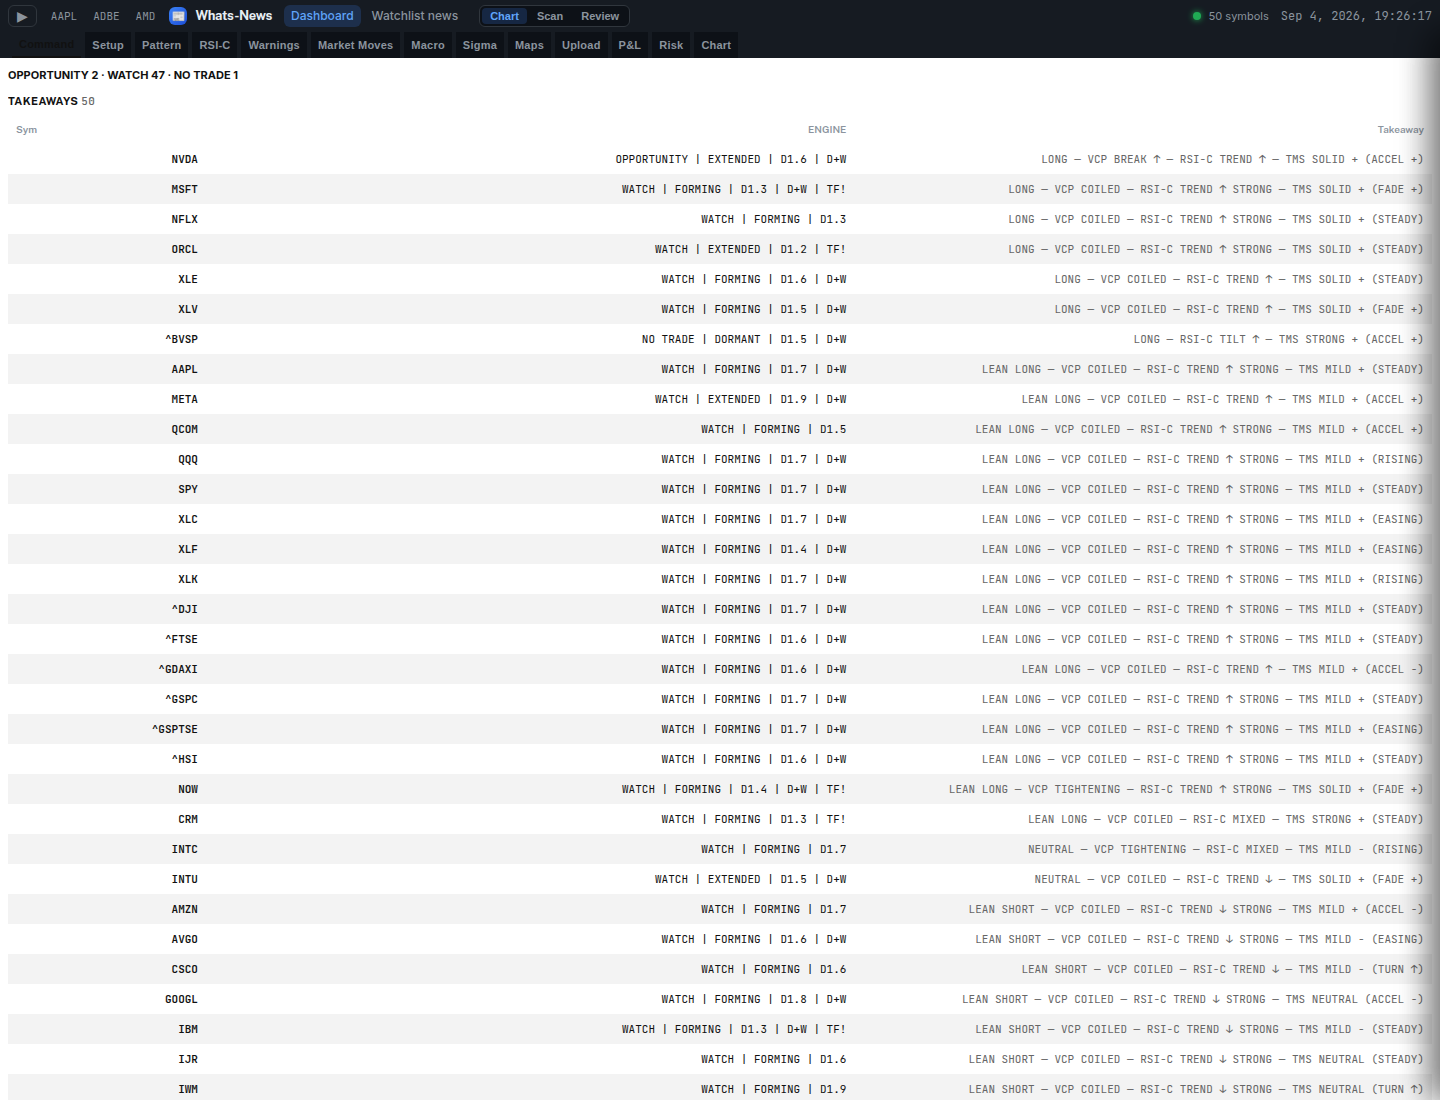
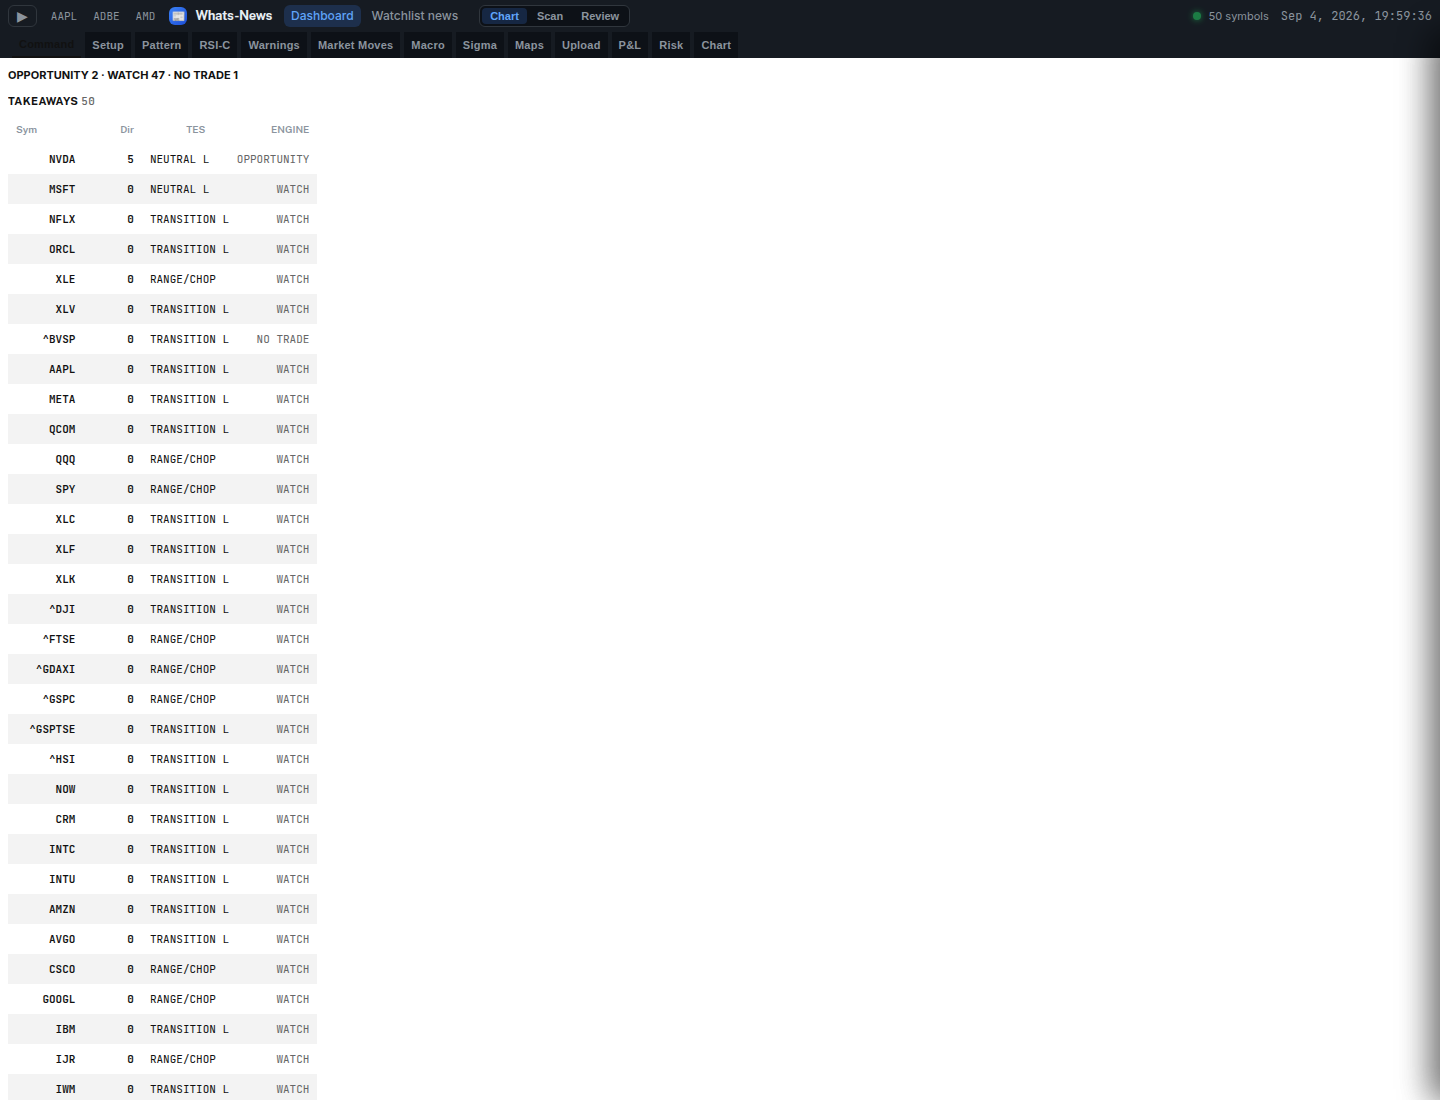
Pack Command takeaways; lock Rotation and TES/Dir shots
Keep compact scatter above Excel tables so Rotation/TES stay on-screen. Command strip is max-content so ENGINE primary is not clipped. Density shots lock Rotation + TES/Dir.

diff --git a/scripts/engine_desk.js b/scripts/engine_desk.js
@@ -710,8 +710,8 @@ function renderEngineMaps(data, view) {
         const rows = ((data.scanner || {}).rows) || [];
         el.innerHTML = `
             <div class="warnings-grid">
-                ${_engTesDirTable(rows)}
                 ${_engScatter((data.scanner || {}).scatter || [], { xLabel: 'Dir ±5', yLabel: 'RSI(14)', xmin: -5, xmax: 5, ymin: 0, ymax: 100, guides: [{ v: 0 }, { h: 25 }, { h: 50 }, { h: 75 }] })}
+                ${_engTesDirTable(rows)}
             </div>
             <details class="scan-help"><summary>HOW TO READ — TES / DIR</summary>
                 <p class="scan-breadth-note">${_engEsc((data.scanner || {}).howto || '')}</p>
@@ -722,8 +722,8 @@ function renderEngineMaps(data, view) {
         const rot = data.rotation || {};
         el.innerHTML = `
             <div class="warnings-grid">
-                ${_engPtsTable('Rotation', rot.points, 'RSI(14)', '1w σ', p => p.asset_class || p.gray_tag)}
                 ${_engScatter(rot.points || [], { xLabel: rot.x_label, yLabel: rot.y_label, xmin: 0, xmax: 100, guides: [{ v: 50 }, { h: 0 }] })}
+                ${_engPtsTable('Rotation', rot.points, 'RSI(14)', '1w σ', p => p.asset_class || p.gray_tag)}
             </div>
             <details class="scan-help"><summary>HOW TO READ — ROTATION</summary>
                 <p class="scan-breadth-note">${_engEsc(rot.howto || '')}</p>
@@ -732,8 +732,8 @@ function renderEngineMaps(data, view) {
         const coil = data.coil || {};
         el.innerHTML = `
             <div class="warnings-grid">
-                ${_engPtsTable('Coil', coil.points, 'coil_12', '13w %', p => p.coil_state || p.gray_tag)}
                 ${_engScatter(coil.points || [], { xLabel: coil.x_label, yLabel: coil.y_label, xmin: 0, xmax: 1.2, ymin: -20, ymax: 120, band: [0, 0.65], guides: [{ v: 0.45, color: '#111111' }, { v: 0.65, color: '#111111' }, { h: 0 }, { h: 100 }] })}
+                ${_engPtsTable('Coil', coil.points, 'coil_12', '13w %', p => p.coil_state || p.gray_tag)}
             </div>
             <details class="scan-help"><summary>HOW TO READ — COIL</summary>
                 <p class="scan-breadth-note">${_engEsc(coil.howto || '')}</p>
@@ -742,8 +742,8 @@ function renderEngineMaps(data, view) {
         const ft = data.fractal_td || {};
         el.innerHTML = `
             <div class="warnings-grid">
-                ${_engPtsTable('Fractal × TD', ft.points, 'D65', 'TD', p => p.td_flag || p.gray_tag)}
                 ${_engScatter(ft.points || [], { xLabel: ft.x_label, yLabel: ft.y_label, xmin: 1.1, xmax: 2.1, ymin: -15, ymax: 15, guides: [{ v: 1.3 }, { v: 1.5 }, { h: 13, color: '#EF4444' }, { h: -13, color: '#22C55E' }, { h: 0 }], empty: 'No D65 — SPEC 25/27 window failed. No invented markers.' })}
+                ${_engPtsTable('Fractal × TD', ft.points, 'D65', 'TD', p => p.td_flag || p.gray_tag)}
             </div>
             <details class="scan-help"><summary>HOW TO READ — FRACTAL × TD</summary>
                 <p class="scan-breadth-note">${_engEsc(ft.howto || '')}</p>
@@ -759,9 +759,9 @@ function renderEngineMaps(data, view) {
         }));
         el.innerHTML = `
             <div class="warnings-grid">
+                ${_engScatter(pts, { xLabel: tm.x_label, yLabel: tm.y_label, xmin: -100, xmax: 100, ymin: -25, ymax: 25, guides: [{ v: 0 }, { h: 0 }] })}
                 ${_engPtsTable('TMS-W', tm.weekly, 'score', 'impulse', p => p.zone || 'solid')}
                 ${_engPtsTable('TMS-D', tm.daily, 'score', 'impulse', p => p.zone || 'hollow')}
-                ${_engScatter(pts, { xLabel: tm.x_label, yLabel: tm.y_label, xmin: -100, xmax: 100, ymin: -25, ymax: 25, guides: [{ v: 0 }, { h: 0 }] })}
                 ${_engListCol('Zones', zoneRows)}
                 ${_engListCol('TOP 12M %', (ex.top_12m || []).map(x => ({ symbol: x.symbol, takeaway: x.ret_12m == null ? '' : `${_engNum(x.ret_12m)}%` })))}
                 ${_engListCol('BOTTOM 12M %', (ex.bottom_12m || []).map(x => ({ symbol: x.symbol, takeaway: x.ret_12m == null ? '' : `${_engNum(x.ret_12m)}%` })))}

diff --git a/styles/theme.css b/styles/theme.css
@@ -723,12 +723,26 @@ body.workspace-scan .desk-ia-bar {
   text-overflow: clip;
   white-space: nowrap;
 }
+#engine-command-body .wn-table {
+  width: max-content;
+  max-width: 100%;
+}
+#engine-command-body .wn-table th:nth-child(1),
+#engine-command-body .wn-table td:nth-child(1) {
+  width: 4.5rem;
+}
 #engine-command-body .wn-table th:nth-child(2),
 #engine-command-body .wn-table td:nth-child(2),
 #engine-command-body .wn-table th:nth-child(3),
-#engine-command-body .wn-table td:nth-child(3),
+#engine-command-body .wn-table td:nth-child(3) {
+  width: 4.5rem;
+  max-width: 5.5rem;
+}
 #engine-command-body .wn-table th:nth-child(4),
-#engine-command-body .wn-table td:nth-child(4),
+#engine-command-body .wn-table td:nth-child(4) {
+  width: 8rem;
+  max-width: 9rem;
+}
 #engine-maps-body .wn-table th:nth-child(2),
 #engine-maps-body .wn-table td:nth-child(2),
 #engine-maps-body .wn-table th:nth-child(3),

diff --git a/index.html b/index.html
@@ -6,7 +6,7 @@
   <title>Whats-News – Watchlist Dashboard</title>
   <meta name="description" content="Whats-News: local watchlist dashboard with Yahoo Finance charts, analysis, and real headlines." />
   <link rel="stylesheet" href="styles/main.css" />
-  <link rel="stylesheet" href="styles/theme.css?v=50" />
+  <link rel="stylesheet" href="styles/theme.css?v=51" />
   <!-- TradingView Lightweight Charts -->
   <script src="https://unpkg.com/lightweight-charts@4.1.3/dist/lightweight-charts.standalone.production.js"></script>
   <!-- Chart.js for statistics -->

diff --git a/tests/test_desk_density.py b/tests/test_desk_density.py
@@ -161,6 +161,8 @@ class DeskDensityTests(unittest.TestCase):
             "sigma_grid.png",
             "command_takeaways.png",
             "setup_glance.png",
+            "rotation_map.png",
+            "tes_dir.png",
         ):
             path = root / name
             self.assertTrue(path.is_file(), name)

diff --git a/docs/screenshots/density/README.md b/docs/screenshots/density/README.md
@@ -15,3 +15,7 @@ Watchlist before/after plus Book Upload | P&L | Risk.
 - [coil_map.png](coil_map.png) — Coil map: compact scatter + Excel points
 - [tms_regime.png](tms_regime.png) — TMS Regime: W/D tables + zones, empty omitted
 - [sigma_grid.png](sigma_grid.png) — ENGINE σ heatmap flush, leftover chrome hidden
+- [command_takeaways.png](command_takeaways.png) — Command strip: Sym / Dir / TES / ENGINE primary
+- [setup_glance.png](setup_glance.png) — Setup glance Stretch/Pattern wn-tables
+- [rotation_map.png](rotation_map.png) — Rotation: compact scatter + Excel RSI/σ table
+- [tes_dir.png](tes_dir.png) — TES / Dir: compact scatter + Excel TES/Dir/Tag (not stubs)
